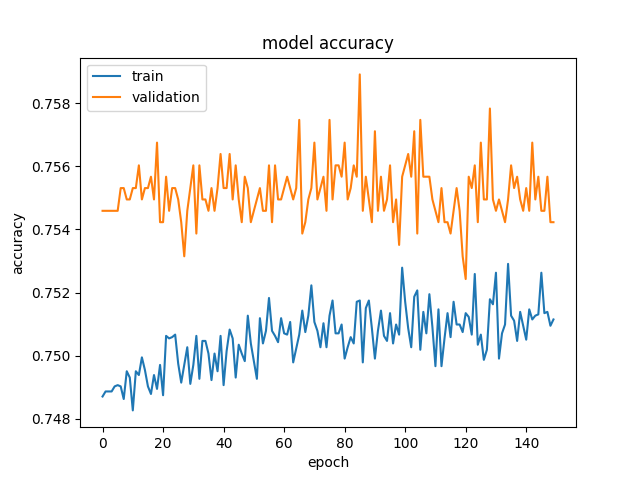
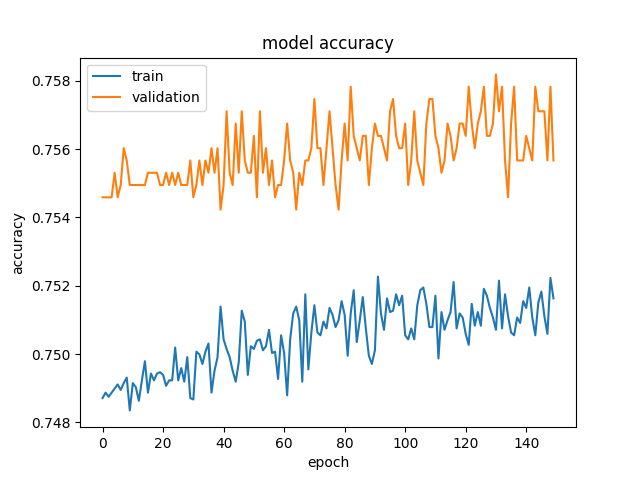
update results

diff --git a/lucia/train_model_fer.py b/lucia/train_model_fer.py
@@ -14,13 +14,11 @@ from sklearn.utils import shuffle
 from sklearn.model_selection import train_test_split
 
 #define datapath
-datapath = '../../jaffe_7classes'
+datapath = '../../FER2013_binary'
 data_dir_list = os.listdir(datapath)
 labels = sorted(data_dir_list)
 img_data_list = []
 img_names = []
-read_images = []
-
 
 #read all images into array
 for label in labels:
@@ -28,7 +26,6 @@ for label in labels:
     print ('Loaded the images of dataset-'+'{}\n'.format(label))
     for img in img_list:
         input_img=cv2.imread(datapath + '/'+ label + '/'+ img )
-        read_images.append(input_img)
         #convert to gray
         input_img=cv2.cvtColor(input_img, cv2.COLOR_BGR2GRAY)
         input_img_resize=cv2.resize(input_img,(48,48))
@@ -40,48 +37,34 @@ img_data = img_data.astype('float32')
 img_data = img_data/255
 img_data.shape
 
-num_classes = 7
+num_classes = 2
 num_of_samples = img_data.shape[0]
 
-names = ['ANGRY','DISGUST','FEAR','HAPPY','SAD','SURPRISE','NEUTRAL']
+names = ['neutral','not neutral']
 
 def getLabel(id):
-    return ['ANGRY', 'DISGUST','FEAR','HAPPY','SAD','SURPRISE','NEUTRAL'][id]
+    return ['neutral','not neutral'][id]
 
 # convert class labels to on-hot encoding
 labels_int = np.ones((num_of_samples,),dtype='int64')
 
 #for images in folder 'emotion' label 1 and folder 'neutral' label 0
+#fer2013
 for label in labels:
     img_list=os.listdir(datapath+'/'+ label+'/')
     for i in range(len(img_list)):
-        if label == 'NEUTRAL':
+        if label == 'neutral':
             labels_int[i] = 0
         else:
             labels_int[i] = 1
-    
+
 y = keras.utils.to_categorical(labels_int, num_classes)
 print(img_data.shape)
 print(y.shape)
 
-#convert to canny edges
-#convert input image to cannny edge
-def canny_edge(img):
-    img = cv2.GaussianBlur(img, (5, 5), 0)
-    img = cv2.Canny(img, 100, 200)
-    return img
-
-img_data_edges = []
-for i in range(len(read_images)):
-    img_data_edges.append(canny_edge(read_images[i]))
-img_data_edges = np.array(img_data_edges)
-img_data_edges = img_data_edges.astype('float32')
-img_data_edges = img_data_edges/255
-img_data_edges.shape
-
 #split the data into train and test and validation
 x_train, x_test, y_train, y_test = train_test_split(img_data, y, test_size=0.2,shuffle=True, random_state=8)
-x_train, x_val, y_train, y_val = train_test_split(x_train, y_train, test_size=0.25, shuffle=True, random_state=8)
+x_train, x_val, y_train, y_val = train_test_split(x_train, y_train, test_size=0.2, shuffle=True, random_state=8)
 
 
 IMAGE_SIZE = [48,48]
@@ -89,11 +72,11 @@ IMAGE_SIZE = [48,48]
 model = keras.Sequential(
     [
         keras.Input(shape=(48,48,1)),
-        layers.Conv2D(16, kernel_size=(3, 3), activation="relu"),
+        layers.Conv2D(64, kernel_size=(3, 3), activation="relu"),
         layers.MaxPooling2D(pool_size=(2, 2)),
-        layers.Conv2D(16, kernel_size=(3, 3), activation="relu"),
+        layers.Conv2D(64, kernel_size=(3, 3), activation="relu"),
         layers.MaxPooling2D(pool_size=(2, 2)),
-        layers.Conv2D(32, kernel_size=(3, 3), activation="relu"),
+        layers.Conv2D(128, kernel_size=(3, 3), activation="relu"),
         layers.MaxPooling2D(pool_size=(2, 2)),
         layers.Flatten(),
         layers.Dropout(0.5),
@@ -101,24 +84,26 @@ model = keras.Sequential(
     ]
 )
 
-#set all layers to not trainable
 for layer in model.layers:
     layer.trainable = True
-#set layers max pool to not trainable
-model.layers[2].trainable = False
-model.layers[4].trainable = False
-model.layers[6].trainable = False
 
+#model.layers[2].trainable = False
+#model.layers[4].trainable = False
+#model.layers[6].trainable = False
+
+#plot the model
+plot_model(model, to_file='model_plot.png', show_shapes=True, show_layer_names=True)
+Image(retina=True, filename='model_plot.png')
 
 #compile the model
 model.compile(loss="categorical_crossentropy", optimizer="adam", metrics=["accuracy"])
 model.summary()
 
 #train the model
-history = model.fit(x_train, y_train, batch_size=4, epochs=150, validation_split=0.1)
+history = model.fit(x_train, y_train, batch_size=4, epochs=50, validation_split=0.1)
 
 #save the model
-model.save('../../model_edges_jaffe.h5')
+model.save('../../model_lucia_fer.h5')
 
 #evaluate the model
 score = model.evaluate(x_test, y_test, verbose=0)
@@ -144,7 +129,7 @@ plt.ylabel('accuracy')
 plt.xlabel('epoch')
 plt.legend(['train', 'validation'], loc='upper left')
 #save
-plt.savefig('accuracy_edges_jaffe.png')
+plt.savefig('accuracy_fer.png')
 
 #clear plot
 plt.clf()
@@ -156,12 +141,12 @@ plt.ylabel('loss')
 plt.xlabel('epoch')
 plt.legend(['train', 'validation'], loc='upper left')
 #save
-plt.savefig('loss_edges_jaffe.png')
+plt.savefig('loss_fer.png')
 
-#Test loss: 2.411907189525664e-07
+#FER2013_binary
+#Test loss: 0.0
 #Test accuracy: 1.0
-#Train loss: 1.5300076938729035e-07
+#Train loss: 0.0
 #Train accuracy: 1.0
-#Validation loss: 1.6356617038582044e-07
+#Validation loss: 0.0
 #Validation accuracy: 1.0
-

diff --git a/lucia/train_model_jaffe.py b/lucia/train_model_jaffe.py
@@ -14,14 +14,11 @@ from sklearn.utils import shuffle
 from sklearn.model_selection import train_test_split
 
 #define datapath
-#datapath = '../../jaffedbase'
-datapath = '../../FER2013_binary'
+datapath = '../../jaffe_binary'
 data_dir_list = os.listdir(datapath)
 labels = sorted(data_dir_list)
 img_data_list = []
 img_names = []
-
-
 
 #read all images into array
 for label in labels:
@@ -52,7 +49,8 @@ def getLabel(id):
 labels_int = np.ones((num_of_samples,),dtype='int64')
 
 #split the name of the image to get the label and check if equal to 'NE'
-'''
+#jaffe
+
 for i in range(num_of_samples):
     name = img_names[i]
     label = name.split('.')[1]
@@ -61,17 +59,6 @@ for i in range(num_of_samples):
         labels_int[i] = 0
     else:
         labels_int[i] = 1
-'''
-
-#for images in folder 'emotion' label 1 and folder 'neutral' label 0
-
-for label in labels:
-    img_list=os.listdir(datapath+'/'+ label+'/')
-    for i in range(len(img_list)):
-        if label == 'neutral':
-            labels_int[i] = 0
-        else:
-            labels_int[i] = 1
 
 y = keras.utils.to_categorical(labels_int, num_classes)
 print(img_data.shape)
@@ -87,9 +74,11 @@ IMAGE_SIZE = [48,48]
 model = keras.Sequential(
     [
         keras.Input(shape=(48,48,1)),
-        layers.Conv2D(32, kernel_size=(3, 3), activation="relu"),
+        layers.Conv2D(64, kernel_size=(3, 3), activation="relu"),
         layers.MaxPooling2D(pool_size=(2, 2)),
         layers.Conv2D(64, kernel_size=(3, 3), activation="relu"),
+        layers.MaxPooling2D(pool_size=(2, 2)),
+        layers.Conv2D(128, kernel_size=(3, 3), activation="relu"),
         layers.MaxPooling2D(pool_size=(2, 2)),
         layers.Flatten(),
         layers.Dropout(0.5),
@@ -100,8 +89,9 @@ model = keras.Sequential(
 for layer in model.layers:
     layer.trainable = True
 
-model.layers[2].trainable = False
-model.layers[4].trainable = False
+#model.layers[2].trainable = False
+#model.layers[4].trainable = False
+#model.layers[6].trainable = False
 
 #plot the model
 plot_model(model, to_file='model_plot.png', show_shapes=True, show_layer_names=True)
@@ -115,7 +105,7 @@ model.summary()
 history = model.fit(x_train, y_train, batch_size=4, epochs=50, validation_split=0.1)
 
 #save the model
-model.save('../../model_lucia.h5')
+model.save('../../model_lucia_jaffe.h5')
 
 #evaluate the model
 score = model.evaluate(x_test, y_test, verbose=0)
@@ -141,7 +131,7 @@ plt.ylabel('accuracy')
 plt.xlabel('epoch')
 plt.legend(['train', 'validation'], loc='upper left')
 #save
-plt.savefig('accuracy.png')
+plt.savefig('accuracy_jaffe.png')
 
 #clear plot
 plt.clf()
@@ -153,7 +143,14 @@ plt.ylabel('loss')
 plt.xlabel('epoch')
 plt.legend(['train', 'validation'], loc='upper left')
 #save
-plt.savefig('loss.png')
+plt.savefig('loss_jaffe.png')
 
+#JAFFE_binary
+#Test loss: 0.3928951025009155
+#Test accuracy: 0.9534883499145508
+#Train loss: 0.0013001528568565845
+#Train accuracy: 1.0
+#Validation loss: 0.8042483925819397
+#Validation accuracy: 0.8529411554336548
 
 

diff --git a/article13/train_model_image_jaffe.py b/article13/train_model_image_jaffe.py
@@ -14,13 +14,11 @@ from sklearn.utils import shuffle
 from sklearn.model_selection import train_test_split
 
 #define datapath
-datapath = '../../jaffedbase'
+datapath = '../../jaffe_7classes'
 data_dir_list = os.listdir(datapath)
 labels = sorted(data_dir_list)
 img_data_list = []
 img_names = []
-
-
 
 #read all images into array
 for label in labels:
@@ -91,6 +89,7 @@ for layer in model.layers:
 #set layers max pool to not trainable
 model.layers[2].trainable = False
 model.layers[4].trainable = False
+model.layers[6].trainable = False
 
 #compile the model
 model.compile(loss="categorical_crossentropy", optimizer="adam", metrics=["accuracy"])
@@ -138,3 +137,12 @@ plt.xlabel('epoch')
 plt.legend(['train', 'validation'], loc='upper left')
 #save
 plt.savefig('loss_image_jaffe.png')
+
+#Test loss: 2.0792307964256906e-07
+#Test accuracy: 1.0
+#Train loss: 1.0700668440222216e-07
+#Train accuracy: 1.0
+#Validation loss: 1.2475386768073804e-07
+#Validation accuracy: 1.0
+
+

diff --git a/article13/train_model_image_fer.py b/article13/train_model_image_fer.py
@@ -97,6 +97,7 @@ for layer in model.layers:
 #set max pool layers to not trainable
 model.layers[2].trainable = False
 model.layers[4].trainable = False
+model.layers[6].trainable = False
 
 #compile the model
 model.compile(loss="categorical_crossentropy", optimizer="adam", metrics=["accuracy"])
@@ -145,10 +146,10 @@ plt.legend(['train', 'validation'], loc='upper left')
 #save the plot
 plt.savefig('loss_image_fer.png')
 
-#Test loss: 0.786396861076355
-#Test accuracy: 0.754353404045105
-#Train loss: 0.7483428120613098
-#Train accuracy: 0.7535444498062134
-#Validation loss: 0.8054413795471191
-#Validation accuracy: 0.7493403553962708
+#Test loss: 0.7837145328521729
+#Test accuracy: 0.7559786438941956
+#Train loss: 0.7447311282157898
+#Train accuracy: 0.7530046701431274
+#Validation loss: 0.8040634989738464
+#Validation accuracy: 0.7482849359512329
 

diff --git a/article13/train_model_edges_fer.py b/article13/train_model_edges_fer.py
@@ -114,6 +114,7 @@ for layer in model.layers:
 #set max pool layers to not trainable
 model.layers[2].trainable = False
 model.layers[4].trainable = False
+model.layers[6].trainable = False
 
 #compile the model
 model.compile(loss="categorical_crossentropy", optimizer="adam", metrics=["accuracy"])
@@ -161,10 +162,9 @@ plt.legend(['train', 'validation'], loc='upper left')
 #save the plot
 plt.savefig('loss_edges_fer.png')
 
-#Test loss: 0.8194593191146851
-#Test accuracy: 0.7527281045913696
-#Train loss: 0.8027129173278809
-#Train accuracy: 0.7494422197341919
-#Validation loss: 0.8294631242752075
+#Test loss: 0.8218222856521606
+#Test accuracy: 0.7529603242874146
+#Train loss: 0.8005245923995972
+#Train accuracy: 0.749730110168457
+#Validation loss: 0.8341816067695618
 #Validation accuracy: 0.7464379668235779
-
